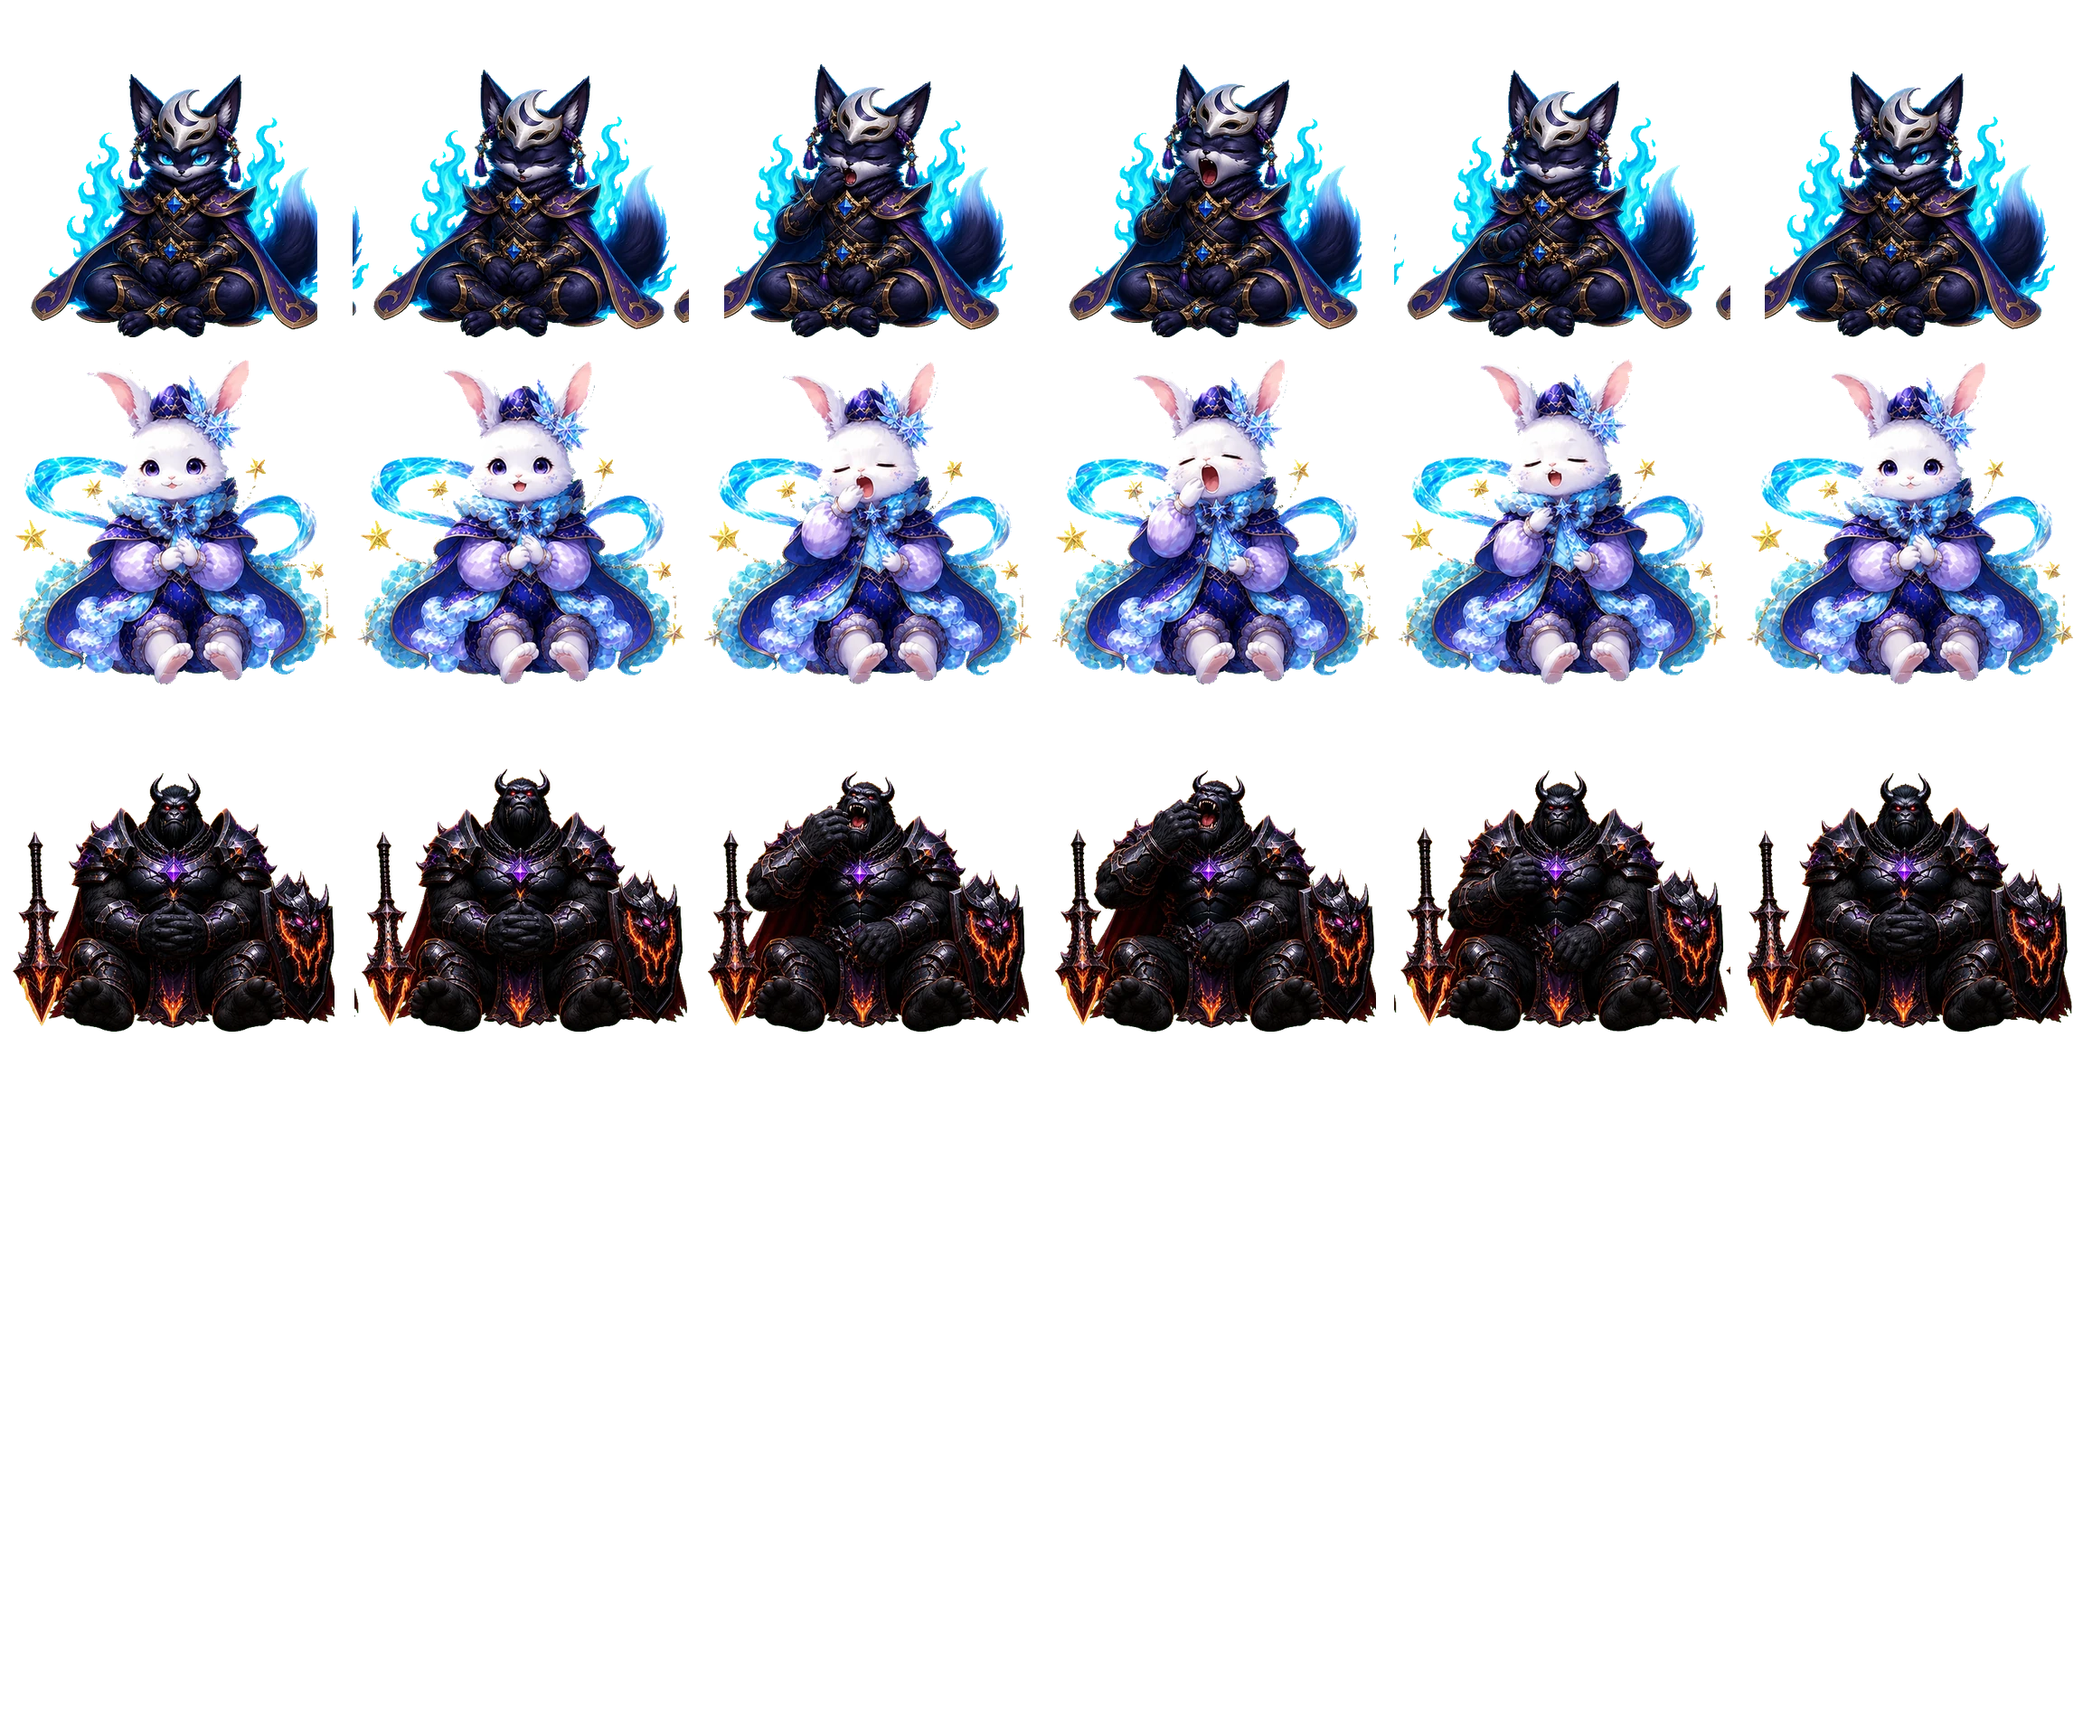
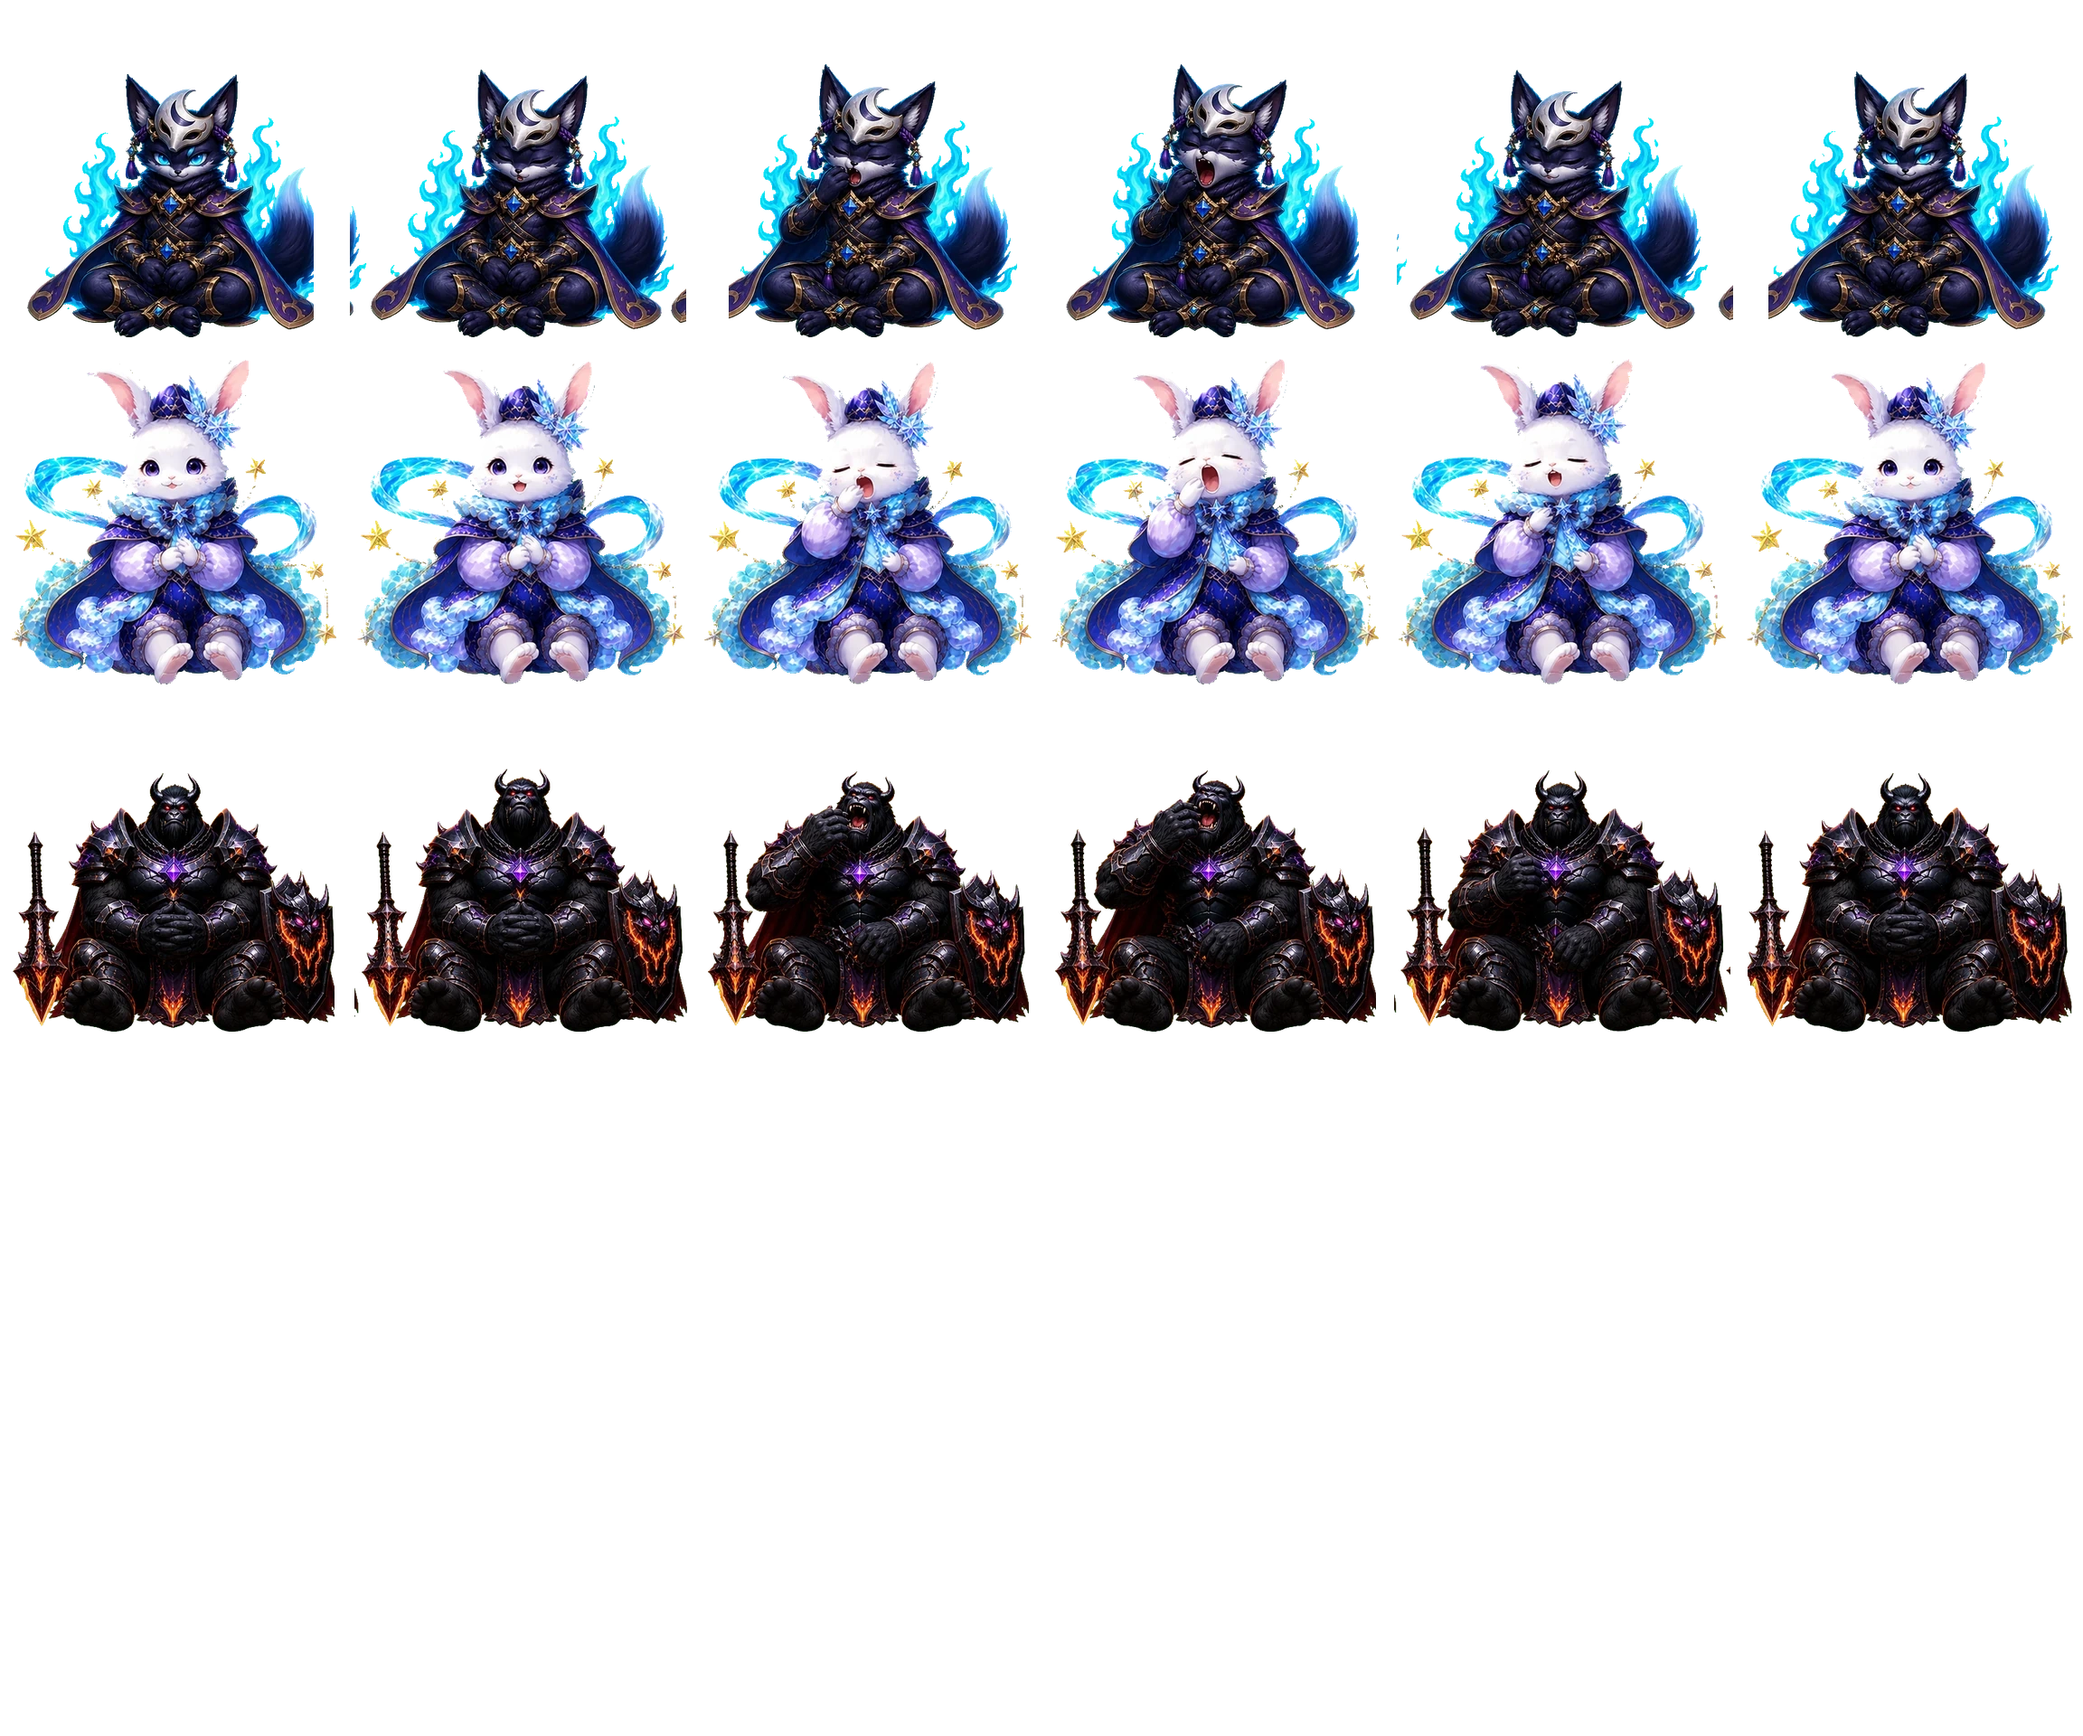
fix: polish prestige previews

Changed region(s): [[0.0, 0.0312, 1.0, 0.1875]]

diff --git a/src/client/main.ts b/src/client/main.ts
@@ -185,6 +185,7 @@ import "./styles.css";
 import "./arcade-polish.css";
 import "./hide-seek-entry.css";
 import "./attendance-and-match-missions.css";
+import "./prestige-preview-fixes.css";
 
 initializeNativeRuntime();
 setupMobileViewportCompatibility();
@@ -1461,12 +1462,14 @@ function prestigeLockerPreviewVideoMarkup(videoUrl: string, posterUrl: string | 
   const fallback = posterUrl
     ? `<img class="prestige-locker-preview-poster" src="${escapeHtml(posterUrl)}" alt="${escapeHtml(label)}" />`
     : '';
-  return `${fallback}<video class="prestige-locker-preview-video" data-prestige-locker-video aria-label="${escapeHtml(label)} 대기 모션" autoplay loop playsinline preload="auto" disablepictureinpicture${poster}><source src="${escapeHtml(videoUrl)}" type="video/mp4" /></video>`;
+  return `${fallback}<video class="prestige-locker-preview-video" data-prestige-locker-video aria-label="${escapeHtml(label)} 대기 모션" autoplay loop muted playsinline preload="auto" disablepictureinpicture${poster}><source src="${escapeHtml(videoUrl)}" type="video/mp4" /></video>`;
 }
 
 function startPrestigeLockerPreviewVideo(video: HTMLVideoElement): void {
-  video.muted = false;
-  video.defaultMuted = false;
+  // Shop and locker previews are passive UI, not cinematics. Keeping them
+  // muted also lets iOS/Android WebViews autoplay the idle loop reliably.
+  video.muted = true;
+  video.defaultMuted = true;
   video.loop = true;
 
   const tryPlay = (): void => {
@@ -3430,6 +3433,19 @@ function tilePreviewUrl(tileSkinId: string | undefined): string {
 
 const TURRET_ART_VERSION = 'prestige-evolution-v2-20260807';
 
+const PRESTIGE_TURRET_HQ_PREVIEW_BY_ID: Readonly<Record<string, string>> = {
+  'turret-basic-moonlit-foxfire': '/assets/turret-skins/skin-moonlit-foxfire/preview-hq.webp',
+  'turret-basic-starlit-cloud': '/assets/turret-skins/skin-starlit-cloud/preview-hq.webp',
+  'turret-basic-abyssal-knight': '/assets/turret-skins/skin-abyssal-knight/preview-hq.webp',
+};
+
+function turretPreviewAssetUrl(turretSkinId: string | undefined): string {
+  if (!turretSkinId) return '/assets/buildings/cute-basic-turret-1.png';
+  return PRESTIGE_TURRET_HQ_PREVIEW_BY_ID[turretSkinId]
+    ?? turretSkinAssetUrl(turretSkinId, 1)
+    ?? '/assets/buildings/cute-basic-turret-1.png';
+}
+
 function modelPreviewHtml(
   turretMode = false,
   tileSkinId?: string,
@@ -3443,9 +3459,7 @@ function modelPreviewHtml(
     return `<div class="custom-avatar-stage tile-skin-preview-stage" data-avatar-preview><div class="tile-skin-preview-room" data-tile-preview-room><img data-tile-preview src="${tilePreviewUrl(tileSkinId)}?v=${APP_RELEASE_VERSION}" alt="선택한 타일 스킨 미리보기"/></div></div>`;
   }
   if (turretMode) {
-    const previewUrl =
-      turretSkinAssetUrl(turretSkinId, 1) ??
-      "/assets/buildings/cute-basic-turret-1.png";
+    const previewUrl = turretPreviewAssetUrl(turretSkinId);
     return `<div class="custom-avatar-stage turret-skin-preview-stage" data-avatar-preview><button type="button" class="turret-level-preview-trigger" data-turret-levels-open data-turret-skin-id="${escapeHtml(turretSkinId ?? '')}">레벨별 외형 보기</button><img data-turret-preview src="${previewUrl}?v=${TURRET_ART_VERSION}" alt="선택한 포탑 스킨 Lv.1 미리보기"/><span>레벨별 외형 적용</span></div>`;
   }
   return `<div class="custom-avatar-stage ${turretMode ? "turret-stage" : ""}" data-avatar-preview>${characterViewSwitchMarkup()}</div>`;
@@ -4253,10 +4267,7 @@ function cosmeticCollectionScreen(
         "[data-turret-preview]",
       );
       if (turretPreview) {
-        turretPreview.src = `${
-          turretSkinAssetUrl(item.id, 1) ??
-          "/assets/buildings/cute-basic-turret-1.png"
-        }?v=${TURRET_ART_VERSION}`;
+        turretPreview.src = `${turretPreviewAssetUrl(item.id)}?v=${TURRET_ART_VERSION}`;
         turretPreview.alt = `${item.label} Lv.1 미리보기`;
       }
       const galleryButton = app.querySelector<HTMLButtonElement>('[data-turret-levels-open]');

diff --git a/src/client/prestige-preview-fixes.css b/src/client/prestige-preview-fixes.css
@@ -1,0 +1,36 @@
+/* Targeted prestige preview fixes.
+ * Kept separate so the existing authored theme styles remain untouched. */
+
+/* The skin catalog has two navigation rows plus the ranked-mode notice. */
+.shop-screen .custom-catalog.has-catalog-subtabs.has-ranked-notice {
+  grid-template-rows: 84px auto minmax(0, 1fr) !important;
+}
+
+.shop-screen .custom-catalog.has-ranked-notice .ranked-cosmetic-notice {
+  position: relative;
+  z-index: 2;
+  min-height: 0;
+  margin: 5px 2px 7px;
+}
+
+.shop-screen .custom-catalog.has-ranked-notice .cosmetic-grid {
+  min-height: 0;
+}
+
+/* The fox source artwork nearly fills its square cell. A slightly smaller
+ * home-only presentation preserves the entire seated silhouette on short
+ * phones while keeping previews and in-game sprites unchanged. */
+.game-home .home-pose-avatar[data-home-pose-skin="skin-look-fox-moonlit-phantom"] {
+  height: min(66%, 204px);
+}
+
+/* HQ preview files are intentionally used only in this enlarged stage. */
+.turret-skin-preview-stage > img[data-turret-preview] {
+  image-rendering: auto;
+}
+
+@media (orientation: portrait) and (max-height: 720px) {
+  .game-home .home-pose-avatar[data-home-pose-skin="skin-look-fox-moonlit-phantom"] {
+    height: min(64%, 190px);
+  }
+}

diff --git a/src/client/game/HomePoseAssets.ts b/src/client/game/HomePoseAssets.ts
@@ -49,7 +49,7 @@ const HOME_POSE_ASSETS: Readonly<Record<string, HomePoseAsset>> = {
   'skin-look-hamster-cyber-driver': atlas(6, 2),
   'skin-look-crocodile-police-enforcer': atlas(6, 3),
   'skin-look-monkey-secret-agent': atlas(6, 4),
-  'skin-look-fox-moonlit-phantom': atlas(7, 0, '2026.08.07.3'),
+  'skin-look-fox-moonlit-phantom': atlas(7, 0, '2026.08.07.4'),
   'skin-look-bunny-starlit-cloud': atlas(7, 1, '2026.08.07.3'),
   'skin-look-gorilla-abyssal-knight': atlas(7, 2, '2026.08.07.3'),
 };
